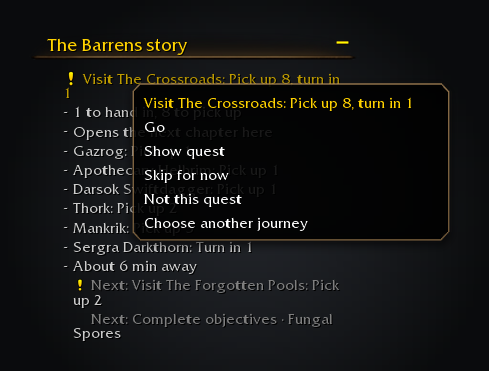
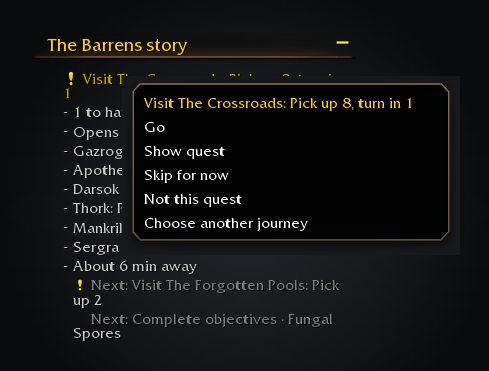
refactor(mock): render the README scenes with the shared forever-core renderer (#274)
Moves this addon's README scene rendering onto the shared
`tools/wowmock` renderer in `cjber/forever-core`, selected through
`FOREVER_CORE`. The private renderer copy and the retired `WOWMOCK`
instructions are gone, scene hashes are refreshed, and the vendored
`forever_tools` is pinned to the core commit carrying the renderer.
Scenes were re-rendered and inspected at full resolution for clipping,
overlap and bounds errors.

---
Assisted by [Nebula](https://nebula.gg).

diff --git a/tools/screenshots.py b/tools/screenshots.py
@@ -2,14 +2,14 @@
 """Render docs/screenshots/*.png and demo.gif from what the addon draws headlessly, with the WoW: Forever
 client's own art.
 
-    WOWMOCK=/path/to/wow-mock-screenshots python3 tools/screenshots.py
+    FOREVER_CORE=/path/to/forever-core python3 tools/screenshots.py
 
 WFA-9: the store and README screenshots come from this script, never from a capture. The panel is
 tests/golden/layout.json; every other scene is read from the addon by tests/scenes.lua through
 the same harness, so no AGF text or layout is retyped here. Stock templates produce no regions headlessly, so each
 one the dumps name has a recipe in screenshots_stock.py citing its Blizzard XML; an unknown stockTemplate fails the run.
 The frames around the addon (the world map, the tracker, the tooltip and the menu) are wowmock's
-(the wow-mock-screenshots skill), drawn from Blizzard's own layout numbers (WFA-4: the stock look).
+(the forever-core shared renderer), drawn from Blizzard's own layout numbers (WFA-4: the stock look).
 
 Art, fonts and DB2 tables come from wago.tools for BUILD and are cached under ~/.cache/wowmock. The game client is
 never started or read. Two runs give byte-identical PNGs with this environment (pip is not installed on the
@@ -44,6 +44,7 @@ from screenshots_spf import SPF_SHA, breadcrumbs, goal_pins, map_position, spf_w
 from screenshots_stock import LAYERS, button_font, draw_scroll_frame, stock
 
 ROOT = Path(__file__).resolve().parent.parent
+FOREVER_CORE = Path(os.environ.get("FOREVER_CORE", ROOT.parent / "forever-core")).expanduser()
 OUT = ROOT / "docs/screenshots"
 GOLDEN = ROOT / "tests/golden/layout.json"
 PILLOW = "12.3.0"
@@ -646,7 +647,7 @@ def main():
 
 
 def render_micro_menu_scenes():
-    renderer = ROOT.parent / "forever-core/docs/handoff/micro-menu-buttons/render.py"
+    renderer = FOREVER_CORE / "docs/handoff/micro-menu-buttons/render.py"
     with tempfile.TemporaryDirectory(prefix="adventure-guide-micro-menu-") as directory:
         subprocess.run([sys.executable, str(renderer)], cwd=directory, check=True)
         for scene in (

diff --git a/tools/forever_tools/doctor.py b/tools/forever_tools/doctor.py
@@ -4,7 +4,8 @@ The pins are read from the repository itself, never retyped here: `.github/workf
 actionlint, zizmor, gitleaks, lua-language-server, the apt packages) and `tools/typecheck.sh` (the LuaLS version
 and the Ketho WoW API annotations checkout). `tools/typecheck.sh` stops at its first problem; this reports them
 all, one line each with its fix, then exits 1 if any tool the gate needs is missing or at the wrong version.
-Screenshot prerequisites (Pillow at the pin in `tools/screenshots.py`, `WOWMOCK`) are reported but never fail it.
+Screenshot prerequisites (Pillow at the pin in `tools/screenshots.py` and the shared renderer in
+`FOREVER_CORE`) are reported but never fail it.
 
     python3 tools/doctor.py
 """
@@ -194,18 +195,19 @@ def check_screenshots(pillow: str) -> list[Finding]:
         findings.append(Finding(False, text, fix, optional=True))
     else:
         findings.append(Finding(True, f"Pillow: {installed}"))
-    wowmock = os.environ.get("WOWMOCK")
-    if not wowmock or not (Path(wowmock) / "wowmock.py").is_file():
+    core = Path(os.environ.get("FOREVER_CORE", Path(__file__).resolve().parents[3] / "forever-core")).expanduser()
+    renderer = core / "tools" / "wowmock" / "wowmock.py"
+    if not renderer.is_file():
         findings.append(
             Finding(
                 False,
-                "WOWMOCK: not set to a wow-mock-screenshots directory (tools/screenshots.py only)",
-                "export WOWMOCK=<cjber/skills checkout>/wow-mock-screenshots",
+                f"FOREVER_CORE: shared renderer not found at {renderer} (tools/screenshots.py only)",
+                "set FOREVER_CORE to the forever-core checkout",
                 optional=True,
             )
         )
     else:
-        findings.append(Finding(True, f"WOWMOCK: {wowmock}"))
+        findings.append(Finding(True, f"FOREVER_CORE: {core}"))
     return findings
 
 

diff --git a/tools/screenshots_art.py b/tools/screenshots_art.py
@@ -5,7 +5,8 @@ import os
 import sys
 from pathlib import Path
 
-WOWMOCK = Path(os.environ["WOWMOCK"]).expanduser() if os.environ.get("WOWMOCK") else None
+FOREVER_CORE = Path(os.environ.get("FOREVER_CORE", Path(__file__).resolve().parents[2] / "forever-core")).expanduser()
+WOWMOCK = FOREVER_CORE / "tools" / "wowmock"
 
 wm = None  # Imported by load_wowmock so headless tests need no Pillow.
 
@@ -13,10 +14,8 @@ wm = None  # Imported by load_wowmock so headless tests need no Pillow.
 def load_wowmock():
     global wm
     if wm is None:
-        if WOWMOCK is None:
-            sys.exit("Set WOWMOCK to the directory containing wowmock.py from the wow-mock-screenshots library")
         if not (WOWMOCK / "wowmock.py").is_file():
-            sys.exit(f"wowmock.py not found in {WOWMOCK}; set WOWMOCK to the wow-mock-screenshots skill")
+            sys.exit(f"wowmock.py not found in {WOWMOCK}; set FOREVER_CORE to the forever-core checkout")
         sys.path.insert(0, str(WOWMOCK))
         import wowmock
 

diff --git a/tools/check_screenshots.py b/tools/check_screenshots.py
@@ -11,7 +11,8 @@ image's hash beside its dump's; tools/screenshots.py rewrites it after a render.
 On the daily data PR (`data/refresh`, opened by .github/workflows/refresh-data.yml), ci.yml sets
 SCREENSHOTS_STALE_WARN=true. Then an image whose scene moved while the image itself is as recorded (what new client
 data does) is a GitHub `::warning::` rather than a failure, since the bot that opens that PR can't render (no Pillow
-or WOWMOCK). Re-render after it merges. Every other problem still fails there, and everything fails everywhere else.
+or FOREVER_CORE). Re-render after it merges. Every other problem still fails there, and everything fails everywhere
+else.
 """
 
 import functools

diff --git a/THIRD_PARTY.md b/THIRD_PARTY.md
@@ -36,7 +36,7 @@ No embedded libraries ship. `media/` is this addon's own: the icon is drawn in `
 | Shortest Path Forever types and source | The API contract spec and the map screenshots | `SPF_SHA` in `tests/contract_spec.lua` and `tools/screenshots_spf.py` | GPL-3.0-or-later |
 | [Ketho's WoW API annotations](https://github.com/Ketho/vscode-wow-api) | lua-language-server types in `tools/typecheck.sh` | `revision` in `tools/typecheck.sh` | MIT |
 | [forever_tools](https://github.com/cjber/forever-core/tree/main/.agents/skills/wow-forever-addon/tooling/forever_tools) | Shared lints, release checks and the generated-data gate, vendored in `tools/forever_tools/` | `revision` in `tools/forever_tools/MANIFEST.json` | MIT |
-| [wow-mock-screenshots](https://github.com/cjber/skills/tree/main/wow-mock-screenshots) and the client art it fetches | `tools/screenshots.py` | `WOWMOCK` (a local checkout); the art at `BUILD` in `tools/gen_quests.py` | MIT; the art is Blizzard Entertainment's, fetched at build time and committed only as it appears in `docs/screenshots/` |
+| [forever-core/tools/wowmock](https://github.com/cjber/forever-core/tree/main/tools/wowmock) and the client art it fetches | `tools/screenshots.py` | `FOREVER_CORE` (a local forever-core checkout); the art at `BUILD` in `tools/gen_quests.py` | MIT; the art is Blizzard Entertainment's, fetched at build time and committed only as it appears in `docs/screenshots/` |
 | AtlasLoot Classic data | Loot in the screenshots (`tools/screenshot_loot.lua`) | A local install (`AGF_ATLASLOOT`) | Its own; only `docs/screenshots/loot.png`, which shows the items it lists, is committed |
 | sift gate | `.sift/gate.py` and `.sift/agents.py` in CI | Vendored by `sift setup` | MIT (`.sift/LICENSE`) |
 

diff --git a/AGENTS.md b/AGENTS.md
@@ -32,7 +32,7 @@ it as the notes on GitHub, CurseForge and Wago.
 The same gate CI runs, plus actionlint, zizmor and gitleaks on the workflows and history. After a change to the
 planner or the rebuild, also run `AGF_BENCH_STRICT=1 luajit -joff tests/plan_bench.lua` (the 3 ms frame budget, and 7 ms for
 the once-a-login QuestieDB catalogue build; local only, since shared runners flake). `AGF_UPDATE_GOLDEN=1` rewrites the golden files in `tests/golden/`.
-After a UI change, set `WOWMOCK` to the installed wow-mock-screenshots library directory and run
+After a UI change, set `FOREVER_CORE` to the installed shared renderer in cjber/forever-core directory and run
 `python3 tools/screenshots.py` (WFA-9; local only: it needs Pillow and wago.tools) and
 commit the PNGs it rewrites in `docs/screenshots/` with `scenes.sha256`; two runs give byte-identical files.
 A data refresh that changes what a scene shows is only a warning from `tools/check_screenshots.py` on the bot's

diff --git a/README.md b/README.md
@@ -131,7 +131,7 @@ No code needed:
 
 Run the full gate in [AGENTS.md](AGENTS.md#commands). `python3 tools/doctor.py` lists the tools it needs, with a fix for each problem.
 
-Screenshots use Pillow and the [wow-mock-screenshots library](https://github.com/cjber/skills/tree/main/wow-mock-screenshots): set `WOWMOCK` to its directory and run `python3 tools/screenshots.py` twice; both runs must match.
+Screenshots use Pillow and the [shared renderer in forever-core](https://github.com/cjber/forever-core): set `FOREVER_CORE` to the forever-core checkout and run `python3 tools/screenshots.py` twice; both runs must match.
 
 [tests/README.md](tests/README.md) describes the test layers and the harness. Contributing and security policies are inherited from [cjber/.github](https://github.com/cjber/.github). Read [AGENTS.md](AGENTS.md) before changing code.
 
